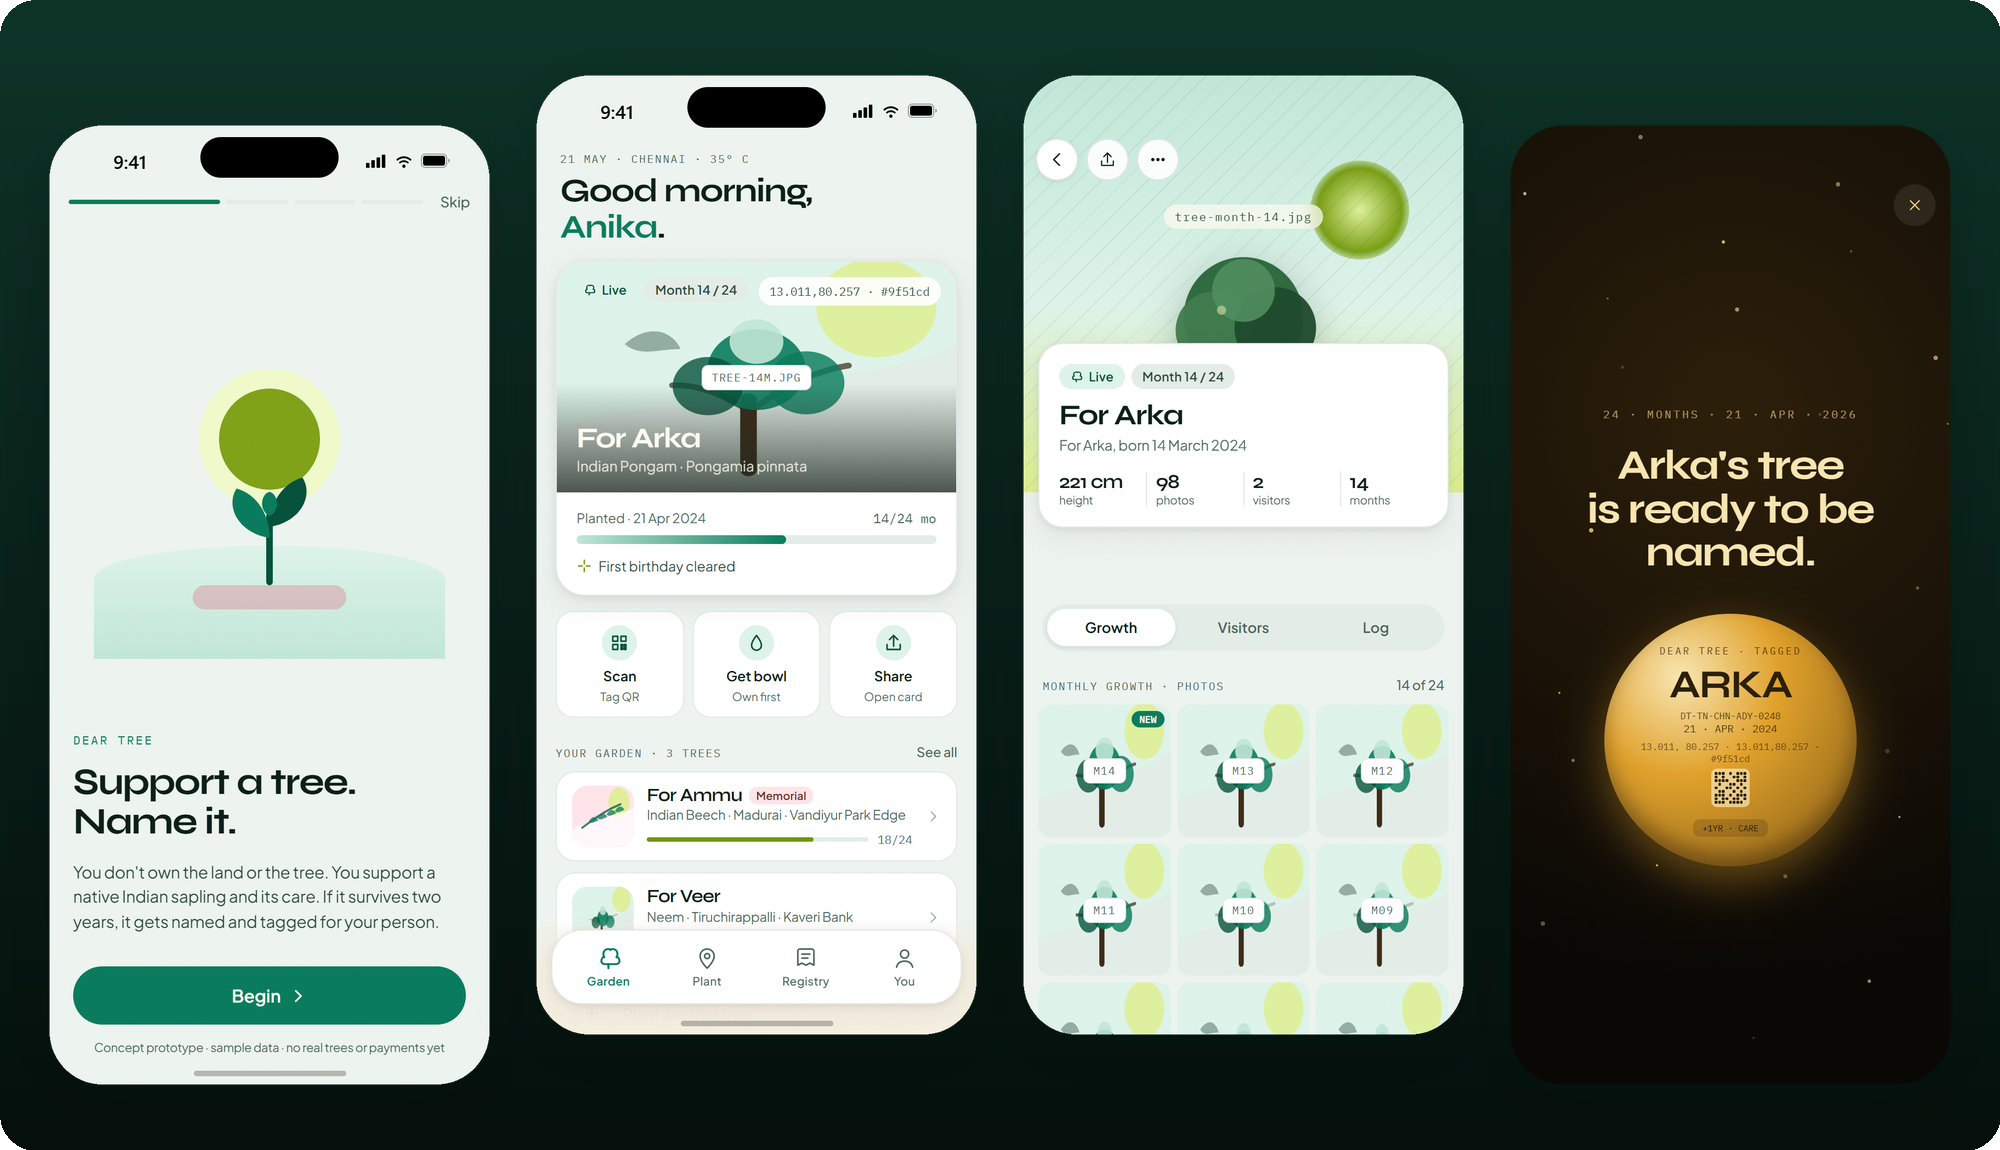
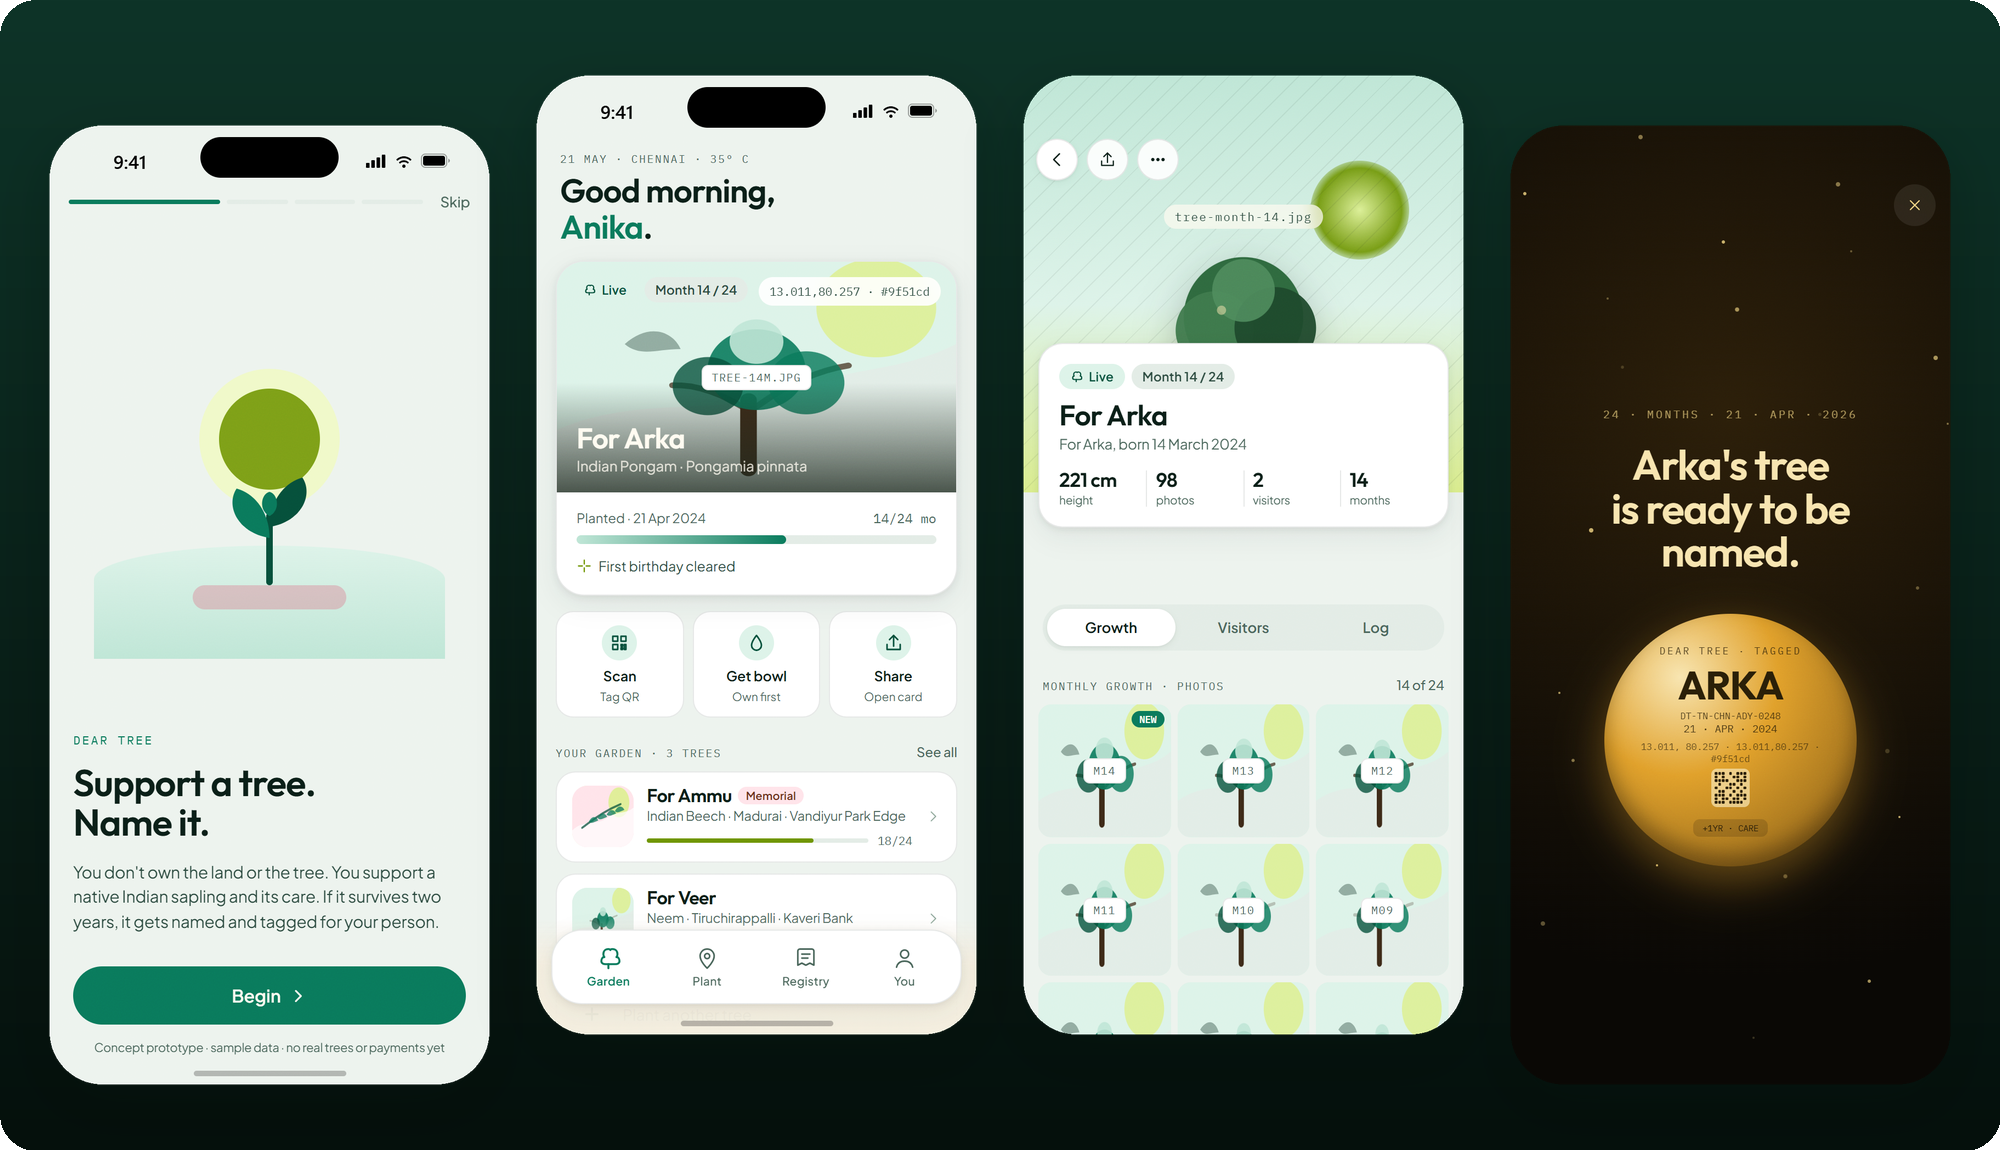
Headings: switch from Syne to Outfit (cleaner, friendlier)
Regenerate hero, gallery, demo GIF and social preview.

diff --git a/tokens.css b/tokens.css
@@ -1,6 +1,6 @@
 /* ─────────────────────────────────────────────────────────────
    Dear Tree — design tokens
-   Night garden · emerald + lime glow · rose and sky accents
+   Night garden · emerald + lime glow · rose and sky accents · Outfit headings
    ───────────────────────────────────────────────────────────── */
 
 :root,
@@ -108,7 +108,7 @@
 
 /* ─────────────── Type ─────────────── */
 :root {
-  --font-display: "Syne", "Plus Jakarta Sans", system-ui, sans-serif;
+  --font-display: "Outfit", "Plus Jakarta Sans", system-ui, sans-serif;
   --font-body:    "Plus Jakarta Sans", -apple-system, system-ui, sans-serif;
   --font-mono:    "IBM Plex Mono", "SF Mono", ui-monospace, monospace;
 }
@@ -127,7 +127,7 @@ body { margin: 0; }
 }
 
 /* ─────────────── Atoms ─────────────── */
-.display { font-family: var(--font-display); font-weight: 700; letter-spacing: -0.03em; line-height: 1.02; }
+.display { font-family: var(--font-display); font-weight: 600; letter-spacing: -0.02em; line-height: 1.05; }
 .mono    { font-family: var(--font-mono); font-feature-settings: "tnum"; letter-spacing: 0; }
 
 button { font-family: inherit; cursor: pointer; border: 0; background: none; color: inherit; padding: 0; }

diff --git a/index.html b/index.html
@@ -23,7 +23,7 @@
   <!-- Type -->
   <link rel="preconnect" href="https://fonts.googleapis.com"/>
   <link rel="preconnect" href="https://fonts.gstatic.com" crossorigin/>
-  <link href="https://fonts.googleapis.com/css2?family=Syne:wght@600;700;800&family=Plus+Jakarta+Sans:wght@400;500;600;700&family=IBM+Plex+Mono:wght@400;500;600&display=swap" rel="stylesheet"/>
+  <link href="https://fonts.googleapis.com/css2?family=Outfit:wght@500;600;700&family=Plus+Jakarta+Sans:wght@400;500;600;700&family=IBM+Plex+Mono:wght@400;500;600&display=swap" rel="stylesheet"/>
 
   <link rel="stylesheet" href="tokens.css"/>
 
